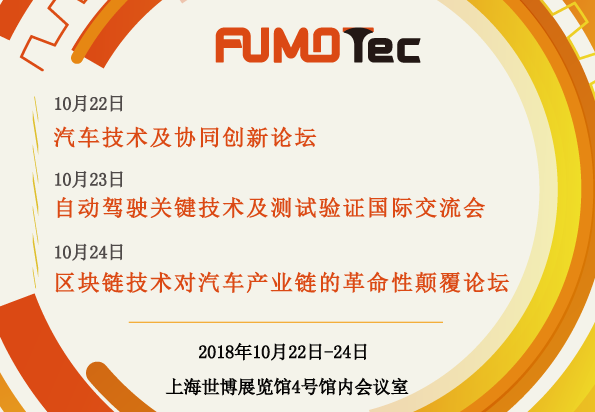
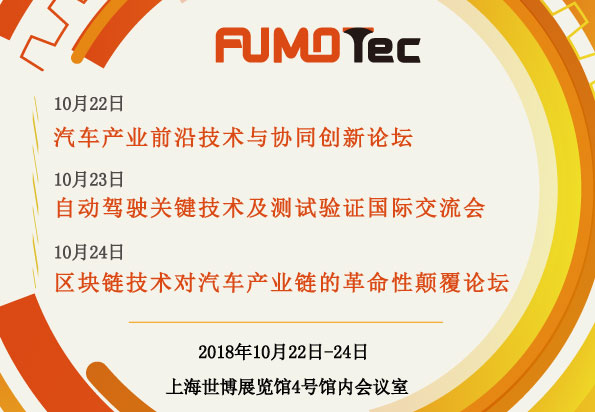
2

diff --git a/src/assets/data.js b/src/assets/data.js
@@ -33,13 +33,16 @@ export const twoPage={
 				},
 				{
 					name: "主办",
-					conent: '纽伦堡会展（上海）有限公司、上海机动车检测认证技术研究中心'
+					conent: '上海机动车检测认证技术研究中心有限公司智能网联新能源汽车创新孵化中心、\
+					上海大众经济城发展中心、\
+					盖世汽车、\
+					纽伦堡会展（上海）有限公司'
 				}
 			],
 			bbs:{
-				title: '“汽车产业前沿技术与协调创新”论坛 ',
+				title: '“汽车产业前沿技术与协同创新”论坛',
 				bgcolor:'#22a74f',
-				date: "10月22日" ,
+				date: "10月22日",
 				lists:[
 					{
 						time: '上午',
@@ -51,7 +54,7 @@ export const twoPage={
 								timing: '9:30-9:50',
 								agenda:[{
 									title: '开幕式：',
-									content: '主持人致欢迎词并介绍参会领导及嘉宾'
+									content: '主办方致辞'
 								},{
 									title: '重要领导致辞',
 									content: ''
@@ -70,10 +73,10 @@ export const twoPage={
 								timing: '10:10-10:30',
 								agenda:[{
 									title: '主题演讲：',
-									content: '智能驾驶安全性试验测试评价研究'
+									content: '智能驾驶汽车测试与评价技术--为智能车安全保驾护航'
 								},{
 									title: '发言嘉宾：',
-									content: '上海测迅汽车科技有限公司 CTO , 吕济明博士'
+									content: '上海测迅汽车科技有限公司 总经理，李晓英'
 								}]
 							},{
 								timing: '10:30-10:50',
@@ -115,7 +118,7 @@ export const twoPage={
 								timing: '11:50-12:10',
 								agenda:[{
 									title: '主题演讲：',
-									content: '智能网联汽车产业计量测试中心服务平台'
+									content: '“智能网联汽车产业计量测试中心”介绍'
 								},{
 									title: '发言嘉宾：',
 									content: '上海机动车检测认证技术研究中心有限公司 计量测试中心主任, 申亚飞'
@@ -139,7 +142,7 @@ export const twoPage={
 									content: '遵循功能安全要求开发电池管理系统'
 								},{
 									title: '发言嘉宾：',
-									content: '东莞钜威动力技术有限公司CTO, 刘洋'
+									content: '东莞钜威动力技术有限公司副总经理, 刘洋'
 								}]
 							},{
 								timing: '14:20-14:40',
@@ -163,7 +166,7 @@ export const twoPage={
 								timing: '15:00-15:20',
 								agenda:[{
 									title: '主题演讲：',
-									content: '深圳乾达行科技 CEO, 罗昌杰博士'
+									content: '基于电气化、网络化、智能化的物流车队技术'
 								},{
 									title: '发言嘉宾：',
 									content: '上海华羿汽车系统集成有限公司CEO, 孙海东'
@@ -172,10 +175,10 @@ export const twoPage={
 								timing: '15:20-15:40',
 								agenda:[{
 									title: '主题演讲：',
-									content: '电动汽车底盘技术'
+									content: '新能源汽车底盘平台化趋势分析'
 								},{
 									title: '发言嘉宾：',
-									content: '捷星新能源科技（苏州）有限公司, 彭华'
+									content: '捷星新能源科技（苏州）有限公司董事长, 彭华'
 								}]
 							},{
 								timing: '15:40-16:00',
@@ -270,7 +273,7 @@ export const twoPage={
 		},{
 			DateVenue:[{
 					name: "日期",
-					conent: "2018年10月24日（星期三） 09:30~13:30"
+					conent: "2018年10月24日（星期三） 09:30~14:30"
 				},
 				{
 					name: "地点",
@@ -282,38 +285,86 @@ export const twoPage={
 				},
 				{
 					name: "支持机构",
-					conent: '阿里校友数字基金、IOV资本、BCTime传媒集团等'
+					conent: '阿里校友数字基金、IOV资本、BCTime传媒集团、FinTech4Good等'
 				}
 			],
-			agenda:{
-				title: '“区块链技术对汽车产业链的革命性颠覆”论坛',
+			blockchainAgenda:{
+				title: '区块链技术对汽车产业链的革命性颠覆论坛',
 				text:'初步议程',
 				bgcolor:'#2f8094',
 				lists:[
 					{
-						time: '09:30-10:00',
-						conent: '汽车行业面临的最大阻碍--区块链技术在汽车产业中的应用场景'
+						time: '9:30~9:45',
+						conent: '主办单位致欢迎辞'
 					},{
-						time: '10:00-10:20',
-						conent: '基于区块链技术的汽车数据质量分析跟踪及国际进展'
+						time: '9:45~10:15',
+						type: '主题演讲',
+						conent: '区块链技术在汽车产业中的应用场景',
+						Execute: '演讲人',
+						speechmaker:[
+							"张晓晨先生",
+							"FinTech4Good创始人",
+							"全球数字经济港创始发起人",
+							"联合国亚太经社理事会数字经济特别行动组成员"
+							]
+
 					},{
-						time: '10:20-10:40',
-						conent: '区块链技术带来的汽车行业创新与发展机遇'
+						time: '10:15 ~10:45',
+						type: '主题演讲',
+						conent: '区块链技术与汽车安全应用',
+						Execute: '演讲人',
+						speechmaker:[
+							"齐宪威先生",
+							"“御途网”创立者",
+							"前阿里巴巴战略合作部总经理、华南大区总经理"
+							]						
 					},{
-						time: '10:40-11:10',
-						conent: '炉边谈话:谁在将区块链技术植入日常用车'
+						time: '10:45~11:15',
+						type: '主题演讲',
+						conent: '基于区块链技术的汽车数据质量分析跟踪及国际进展',
+						Execute: '演讲人',
+						speechmaker:[
+							"Christoph Reich博士",
+							"富特旺根应用科学大学计算机科学教授",
+							"富特旺根应用科学大学信息和媒体中心首席信息官",
+							"云计算机和IT安全机构负责人"
+							]
+						
+						
 					},{
-						time: '11:10-11:40',
-						conent: '炉边谈话:汽车行业中价值链的重新设计'
+						time: '11:15~12:00',
+						type: '围炉讨论',
+						conent: '汽车行业中价值链的重新设计',
+						Execute: '讨论专家',
+						compere: '主持人',
+						compereWho: "张晓晨 先生 ",
+						speechmaker:[
+							"CarLife首席执行官， 龙亮 先生",
+          					"EVshare首席执行官，Mr. Eduardo Javier Muñoz"
+
+							]
 					},{
-						time: '12:30-13:20',
-						conent: '座谈会:区块链应用在汽车工业中的优势与劣势'
+						time: '12:00~13:00',
+						conent: '午餐休息',
+						
 					},{
-						time: '13:20-14:10',
-						conent: '座谈会:孵化与投资-区块链创新与汽车工业'
+						time: '13:00 ~14: 00',
+						type: '专家座谈',
+						conent: '汽车工业中区块链应用孵化与投资-区块链创新与汽车工业',
+						Execute: '演讲专家',
+						speechmaker:[
+							"张晓晨先生，FinTech4Good创始人",
+							"齐宪威先生，“御途网”创立者",
+							"Christoph Reich博士，富特旺根应用科学大学计算机科学教授",
+							"龙亮先生，CarLife首席执行官",
+							"Eduardo Javier Muñoz先生，EVshare首席执行官", 
+							"Eser Sevim先生，Further Network联合创始人"
+
+							]
 					},{
-						time: '14:10-14:40',
-						conent: '闪电演讲:关于区块链技术在汽车应用中的简短陈述'
+						time: '14:00 ~ 14:30',
+						conent: '国际区块链技术汽车应用比赛颁奖典礼',
+						
 					}
 				]
 			}
@@ -330,7 +381,7 @@ export const twoPage={
 		lists:[
 			'未报名用户也可以参与砍价活动',
 			'砍价金额仅用于门票优惠，如不参会属自动放弃，优惠金额恕不兑换现金',
-			'砍价活动有效期至2018年10月8日零点结束',
+			'砍价活动有效期至2018年10月9日零点结束',
 			'砍价活动结束后，工作人员将主动联系已报名参会的用户，确认最终门票价格'
 		]
 	},

diff --git a/src/components/twoPage.vue b/src/components/twoPage.vue
@@ -33,6 +33,11 @@
   					 						{{items.agenda.title}}{{items.agenda.text}}
   					 					</th>
   					 				</tr>
+                    <tr v-if="items.blockchainAgenda" :style="{background:items.blockchainAgenda.bgcolor}">
+                      <th colspan="2">
+                        {{items.blockchainAgenda.title}}{{items.blockchainAgenda.text}}
+                      </th>
+                    </tr>
   					 			</thead>
   					 			<tbody v-if="items.bbs">
   					 				<tr v-for="item in  items.bbs.lists">
@@ -51,6 +56,7 @@
                                     </th>
                                 </tr>
                             </thead>
+
                             <tbody>
                                <tr v-for="list  in item.list">
                                 <td align="center">
@@ -84,6 +90,49 @@
   					 					</td>
   					 				</tr>
   					 			</tbody>	
+                  <tbody v-if="items.blockchainAgenda">
+                    <tr v-for="item in  items.blockchainAgenda.lists">
+                      <td width="100px" align="center">
+                       {{item.time}}
+                      </td>
+                      <td>
+                      
+                        <table border="0" cellspacing="0" cellpadding="0">
+                            <tr>
+                                <td  style="border:0 solid #fff">
+                                  <strong>  {{item.type}}
+                                    <span v-if="item.type">：</span></strong>
+                                    {{item.conent}}
+                                </td>
+                            </tr>
+                            <tr v-if="item.compere" >
+                              <td  valign="top" width="80px" style="border:0 solid #fff">
+                                <strong>
+                                   {{item.compere}}：
+                                </strong>  {{item.compereWho}}
+                              </td>
+                            </tr>
+                            <tr v-if="item.speechmaker">
+                                <td  valign="top" width="80px">
+                                  <strong>
+                                    {{item.Execute}}：
+                                  </strong>
+                                  
+      
+                                     <span v-for="(text,index) in item.speechmaker">
+
+                                        {{text}} <span v-if="(index+1) !==  item.speechmaker.length">,</span>
+                                     </span>
+                                </td>
+                              <!--   <td  v-if="!item.speechmaker">
+                                 
+                                  
+                                </td> -->
+                            </tr>
+                        </table>
+                      </td>
+                    </tr>
+                  </tbody>  
   					 		</table>	
   					 	</div>
   					 

diff --git a/src/components/firstPage.vue b/src/components/firstPage.vue
@@ -238,7 +238,7 @@ export default {
 			if(!cvalue){
 			   cvalue = ''
 			}
-			let strtime = '2019-10-08 00:01:01:000';
+			let strtime = '2018-10-21 12:00:01:000';
 			let date= new Date(strtime.replace(/-/g, '/'));
 			let times = date.getTime();
 			date.setTime(times);
@@ -300,7 +300,7 @@ export default {
 			}
 		},
 		_CountTimes(){//活动结束 ：时间
-			let strtime = '2018-10-08 00:00:00:000';
+			let strtime = '2018-10-21 12:00:01:000';
 			// let strtime = '2018-08-22 14:45:00:000';
 			let date= new Date(strtime.replace(/-/g, '/'));
 			let times = date.getTime();
